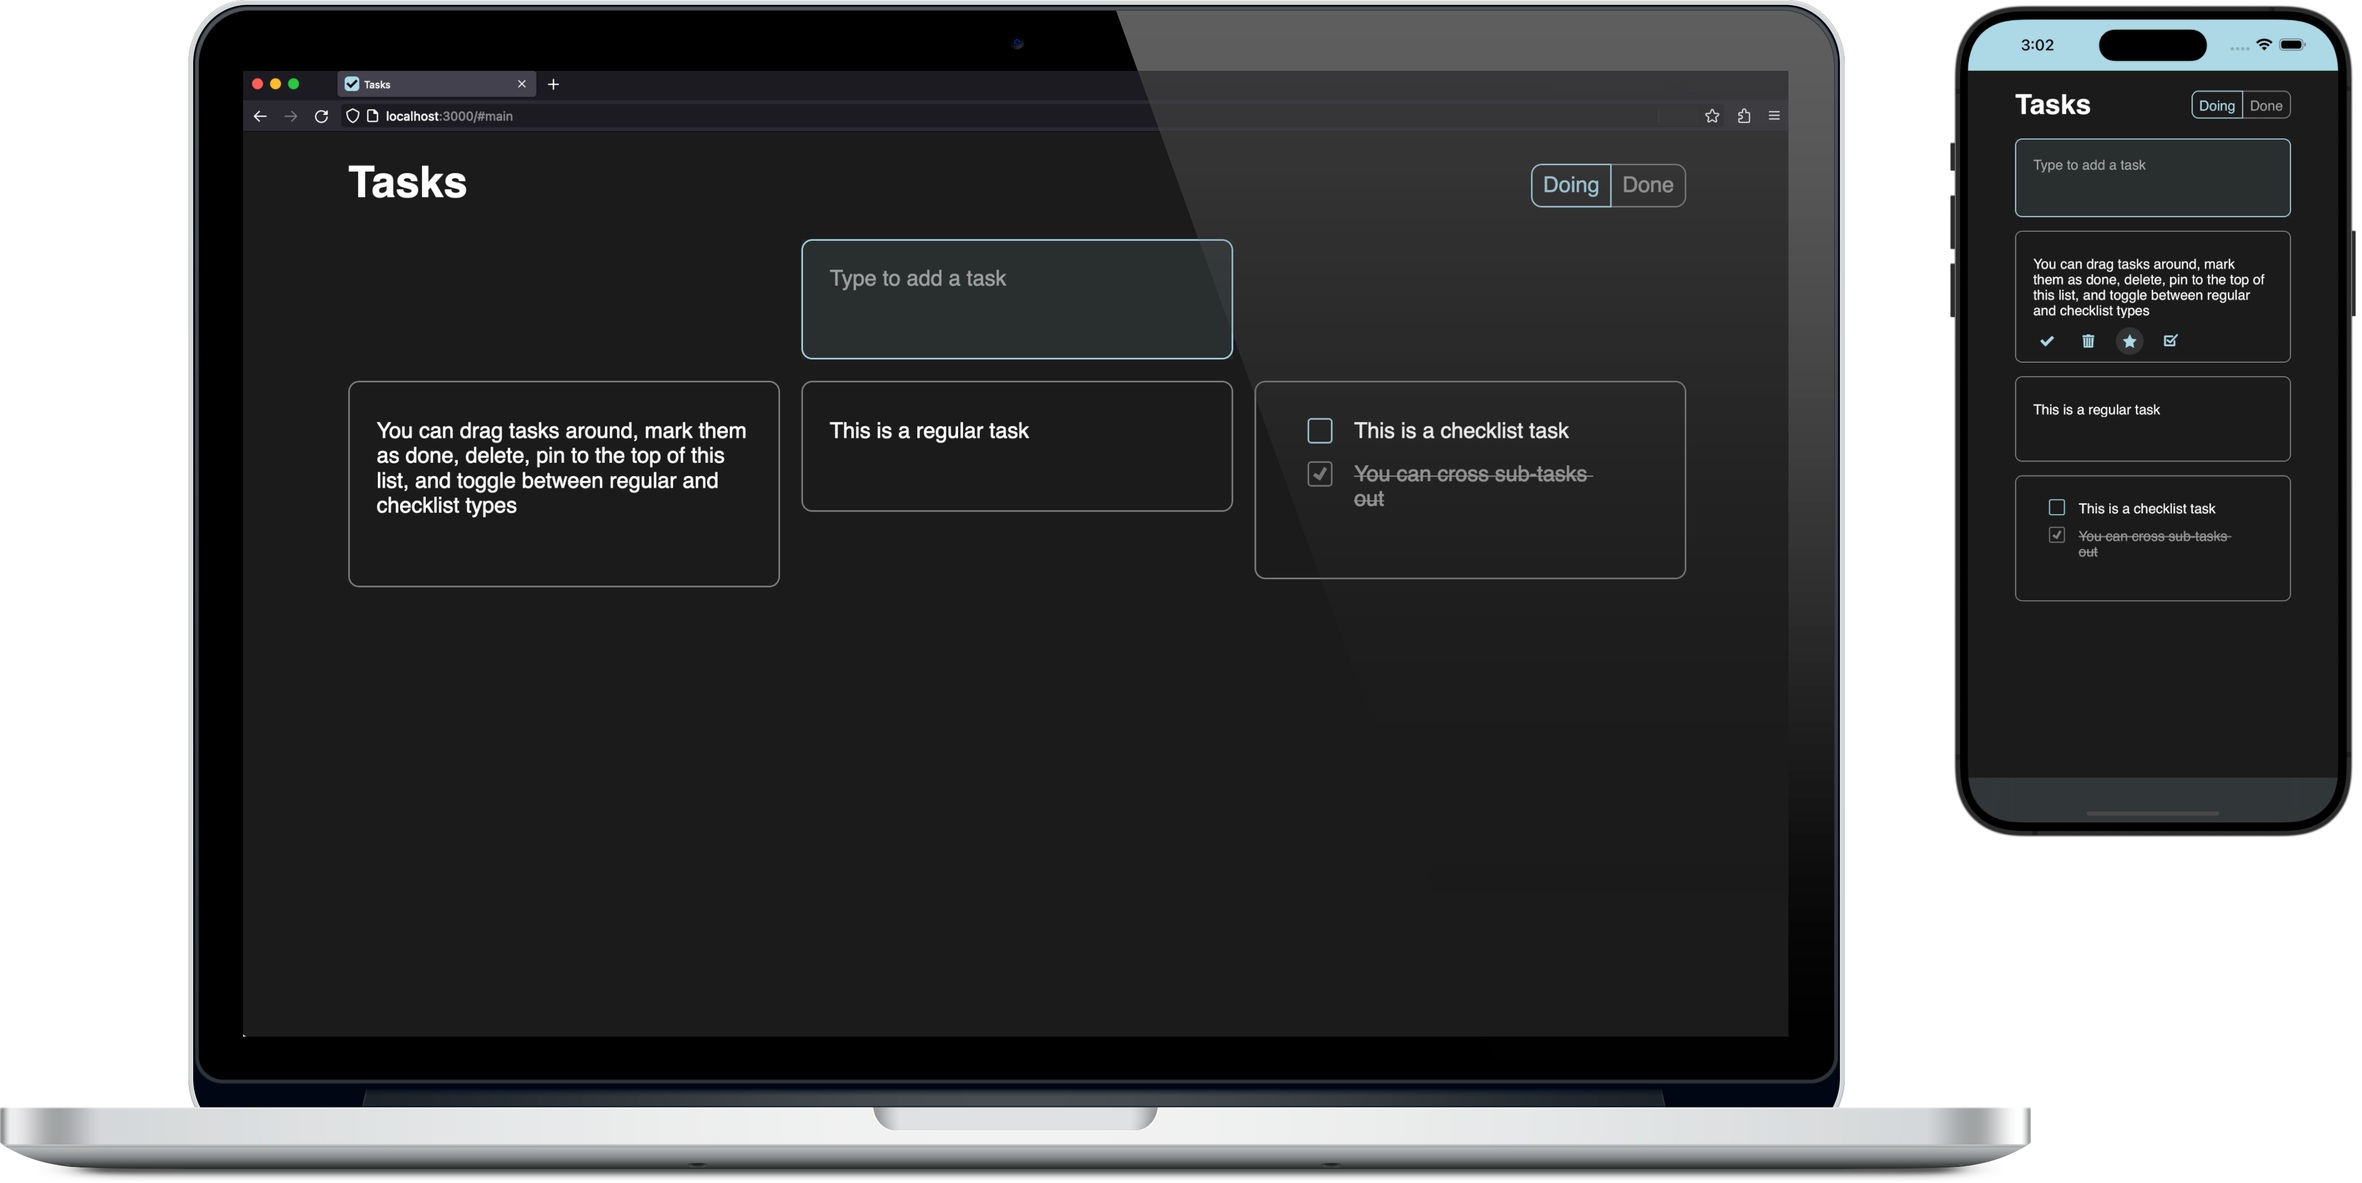
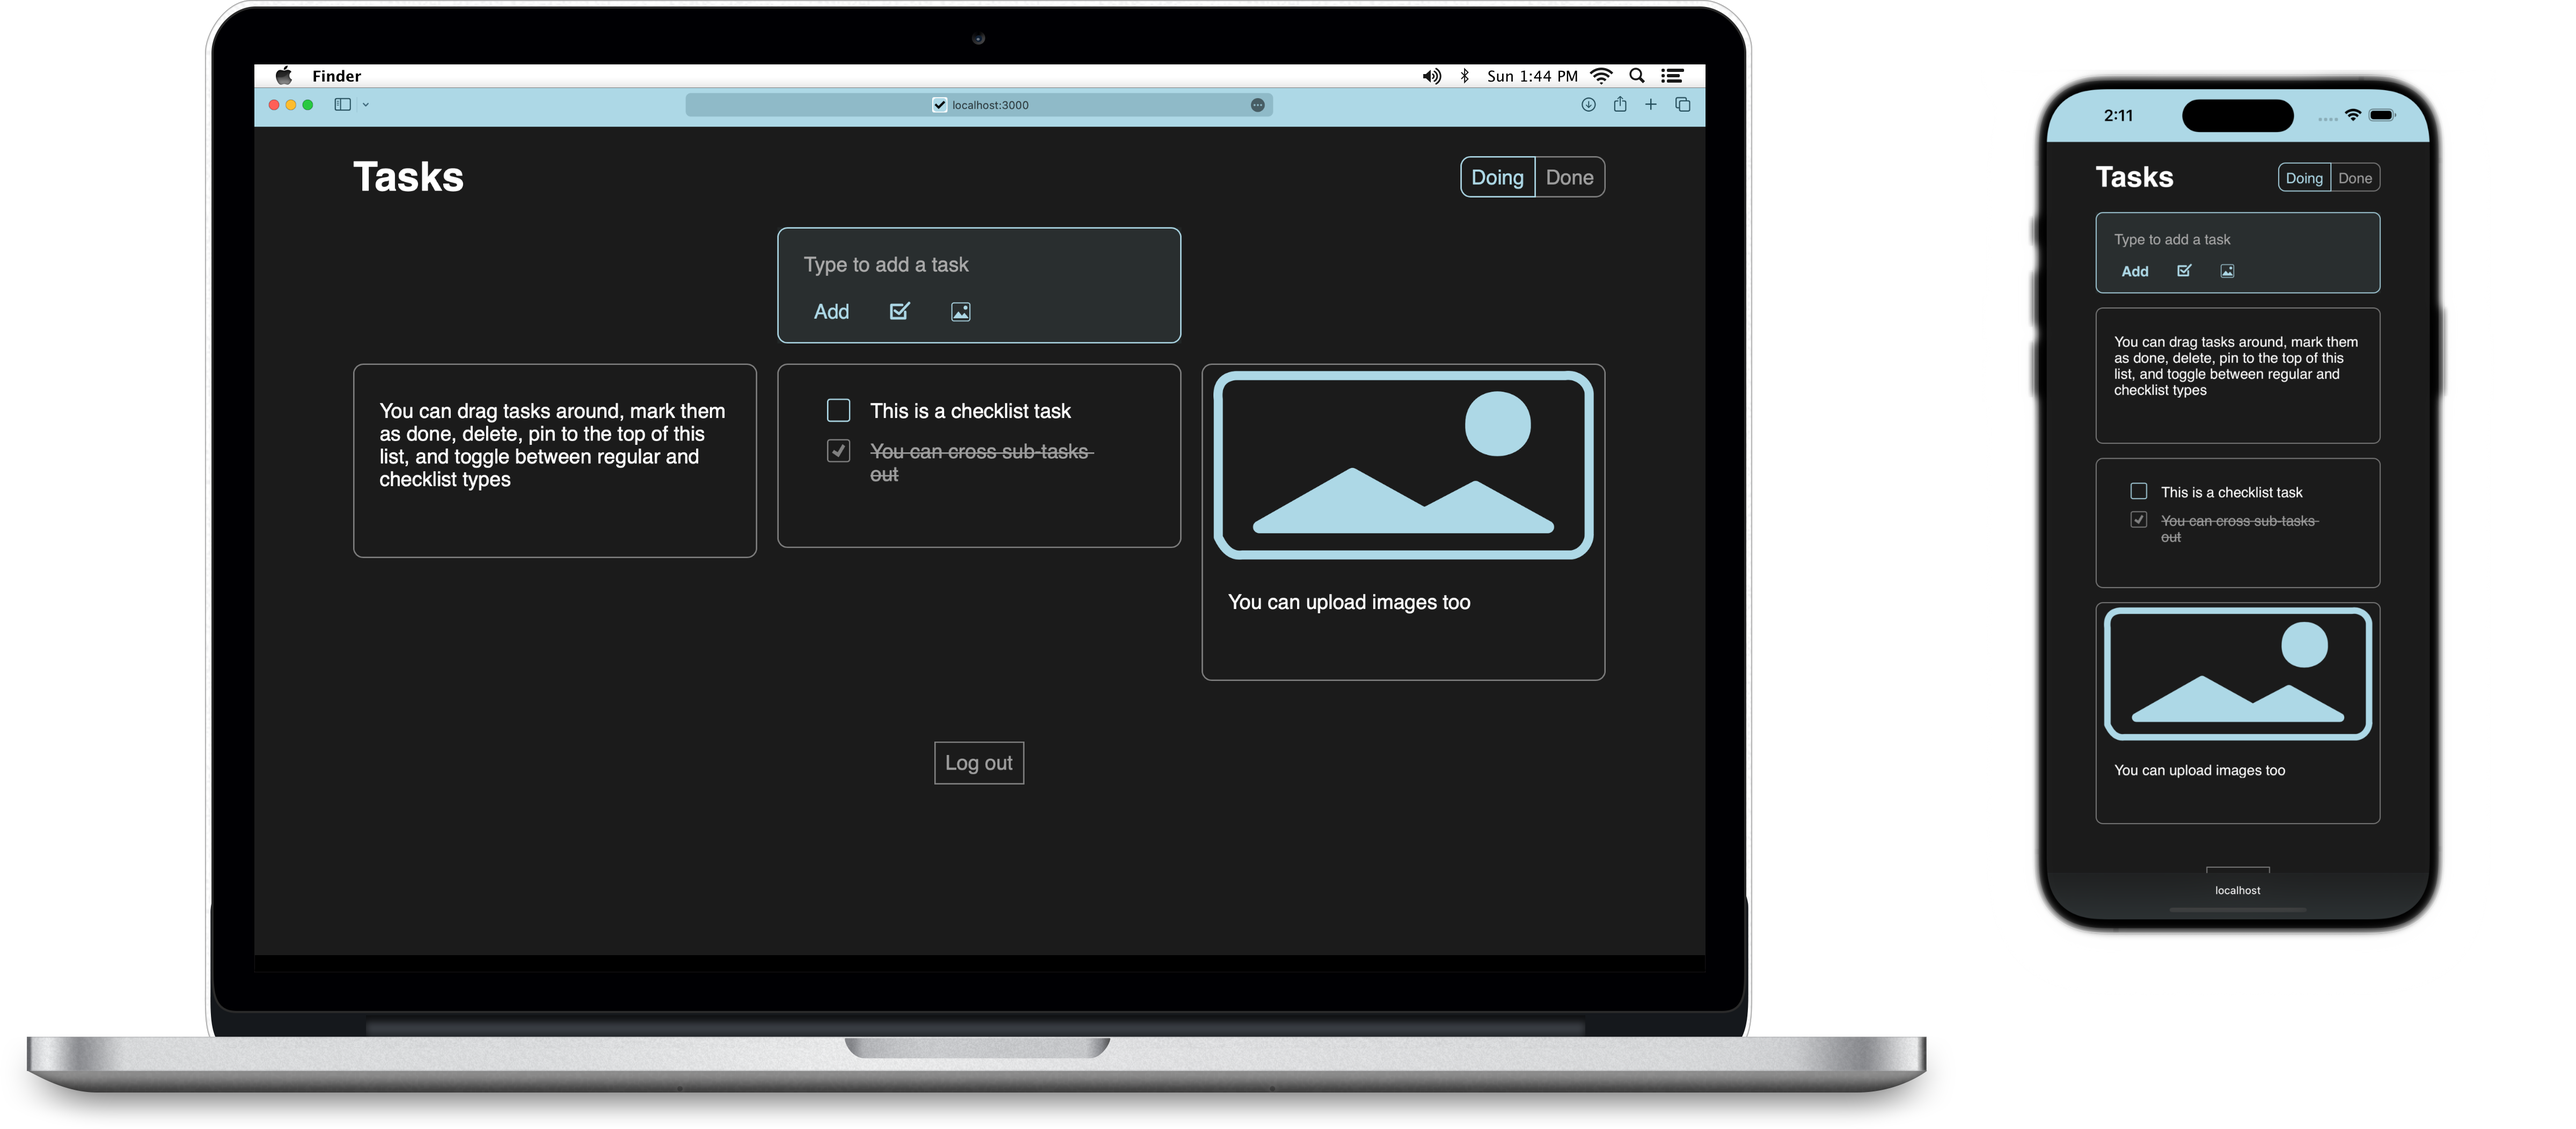
updated image-related demo data

diff --git a/src/server.ts b/src/server.ts
@@ -68,15 +68,7 @@ initialize()
         pinned: false,
         user_id: user.id,
       });
-      // TODO add image task
-      // await createTask({
-      //   id: crypto.randomUUID(),
-      //   data: 'You can upload images too',
-      //   done: false,
-      //   pinned: false,
-      //   user_id: user.id,
-      //   image: uploadId
-      // });
+
       await createTask({
         id: crypto.randomUUID(),
         data: [
@@ -94,6 +86,15 @@ initialize()
         done: false,
         pinned: false,
         user_id: user.id,
+      });
+
+      await createTask({
+        id: crypto.randomUUID(),
+        data: 'You can upload images too',
+        done: false,
+        pinned: false,
+        user_id: user.id,
+        image: 'storage/demo-image.svg',
       });
     }
   })

diff --git a/src/uploads/uploads.controller.ts b/src/uploads/uploads.controller.ts
@@ -11,13 +11,11 @@ uploadRouter.delete('/:id', authorize(), deleteUpload);
 export default uploadRouter;
 
 async function storeUpload(req, res, next) {
-  // req.user for anything?
   uploadService
     .create(req.file, req.user.username)
     .then((ret) => res.json(ret))
     .catch(next);
 }
 async function deleteUpload(req, res, next) {
-  // req.user for anything?
   uploadService.delete(req.params.id).then(res.json).catch(next);
 }

diff --git a/src/components/Form.tsx b/src/components/Form.tsx
@@ -205,6 +205,7 @@ function Form(props) {
     }
   }
 
+  // TODO if just url, show preview and turn into link
   function dataArea(item?, index?, done?) {
     return (
       <TextareaAutosize
